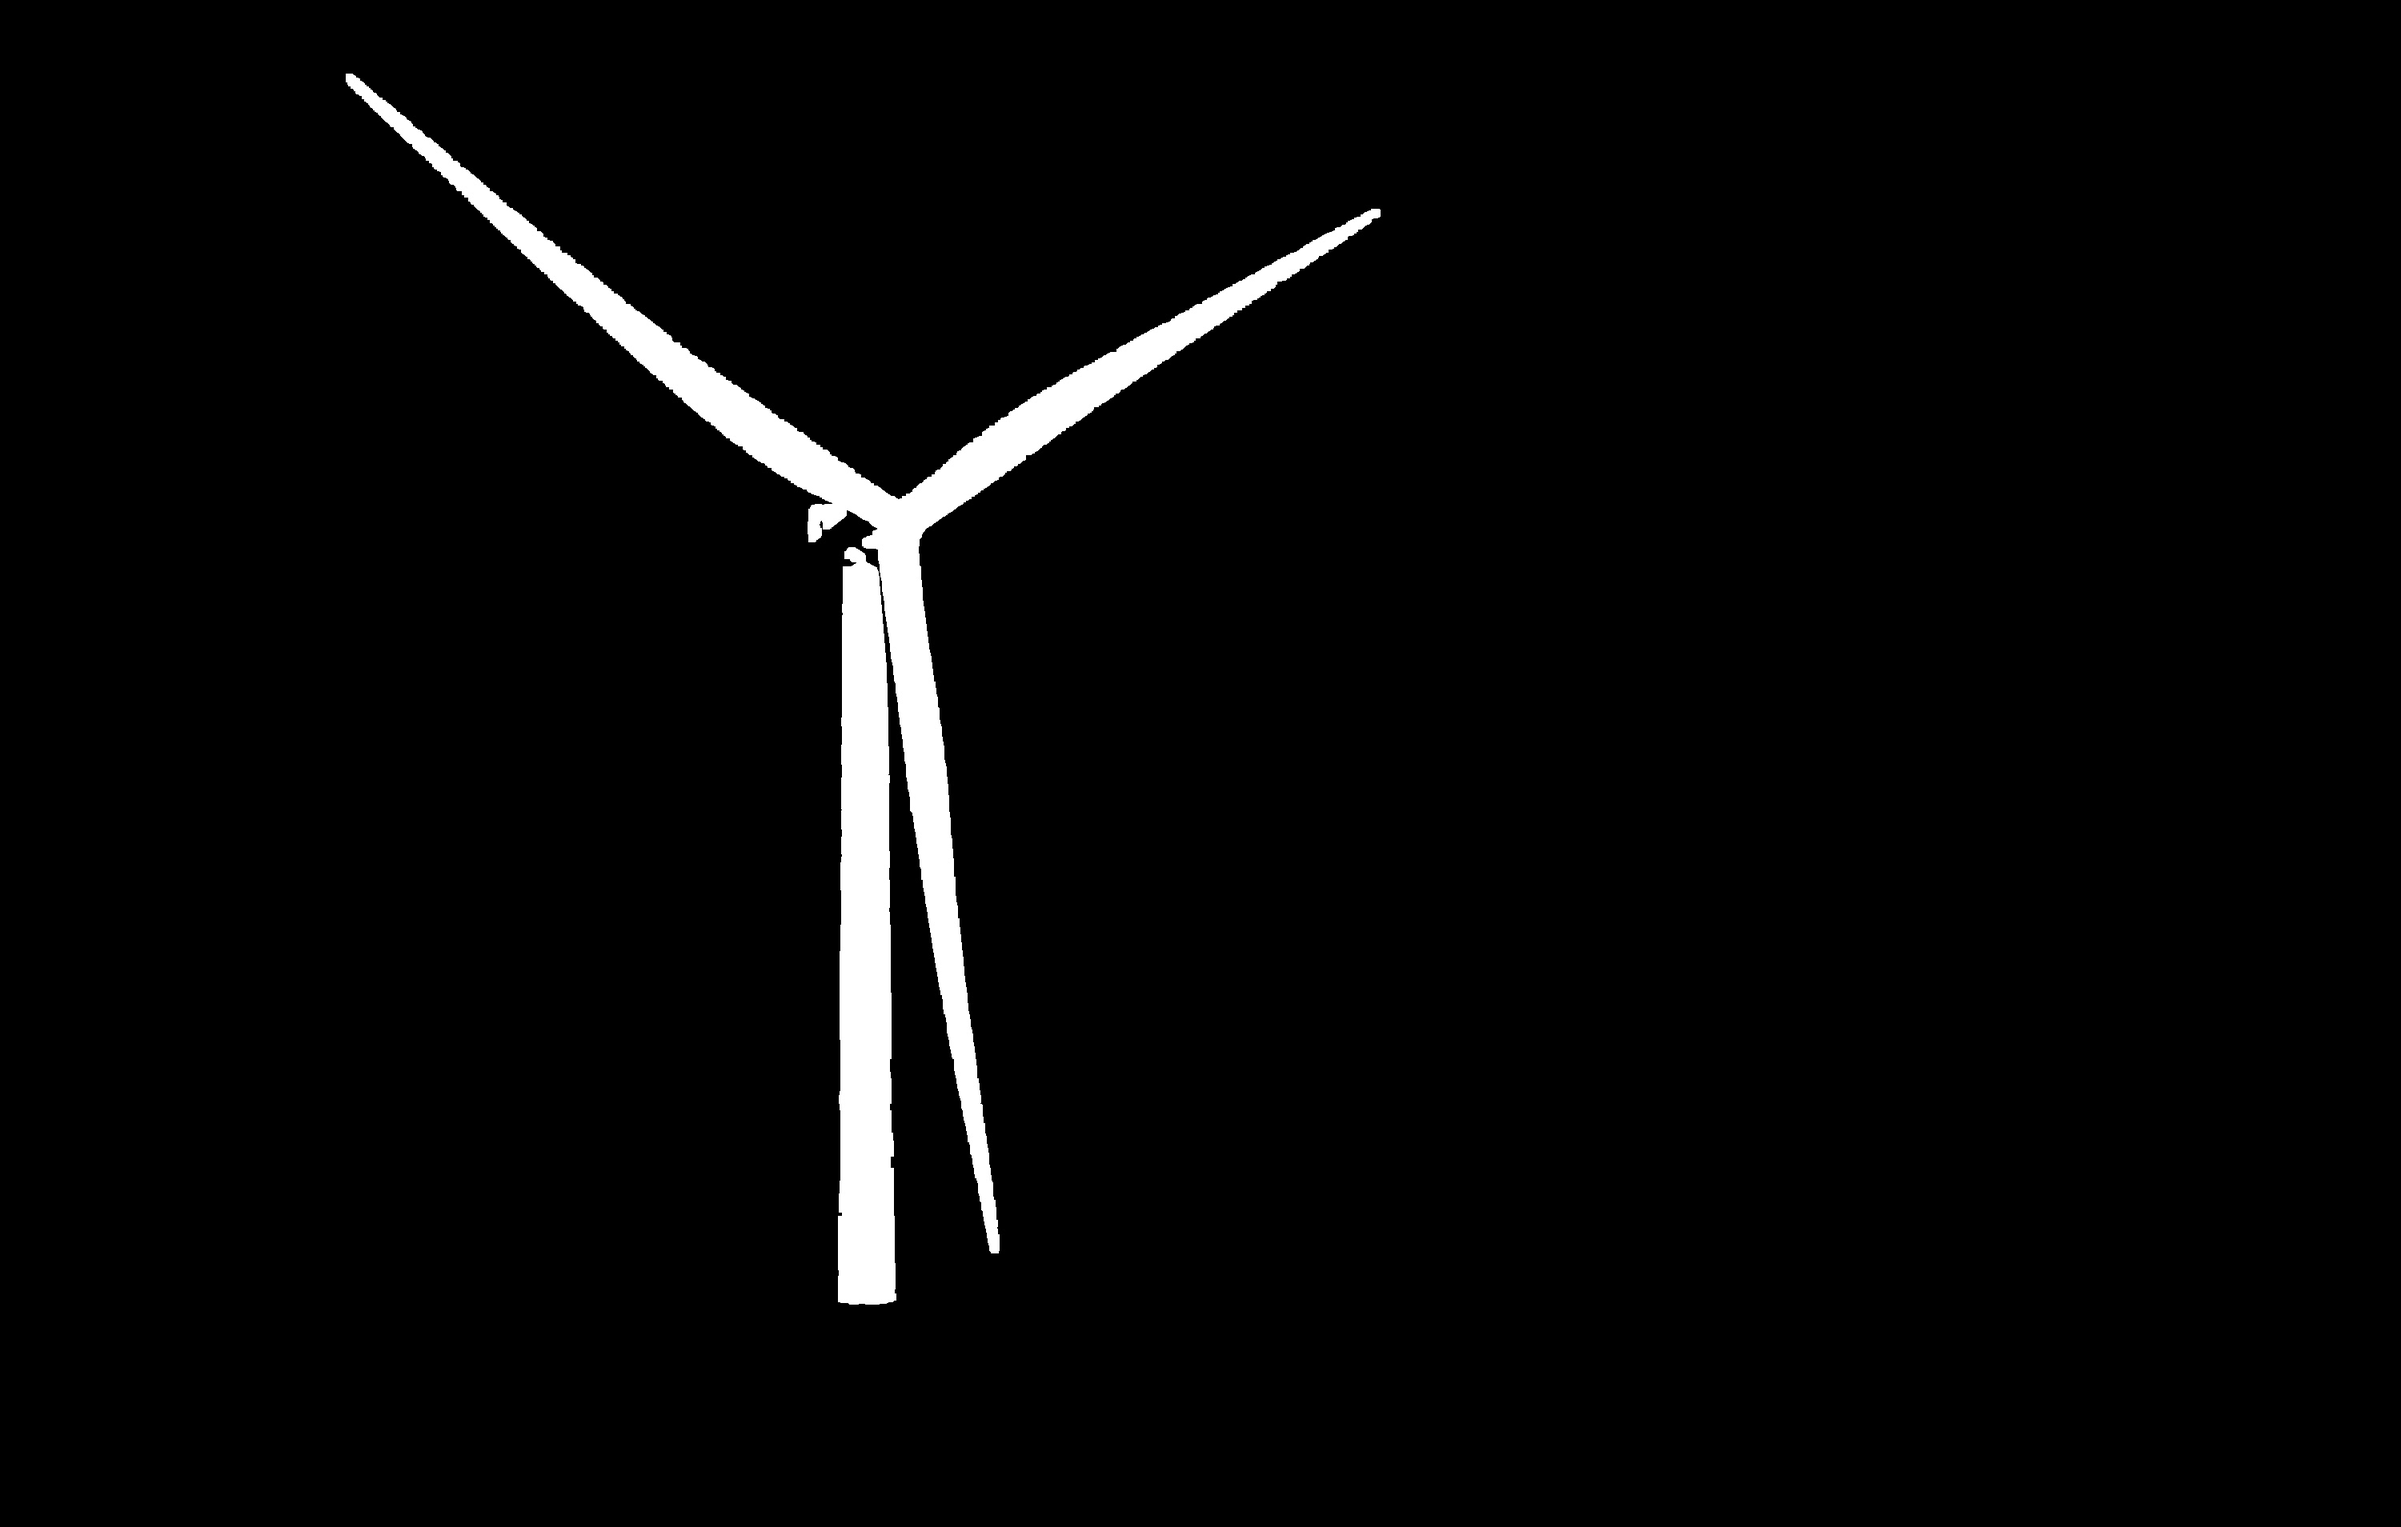
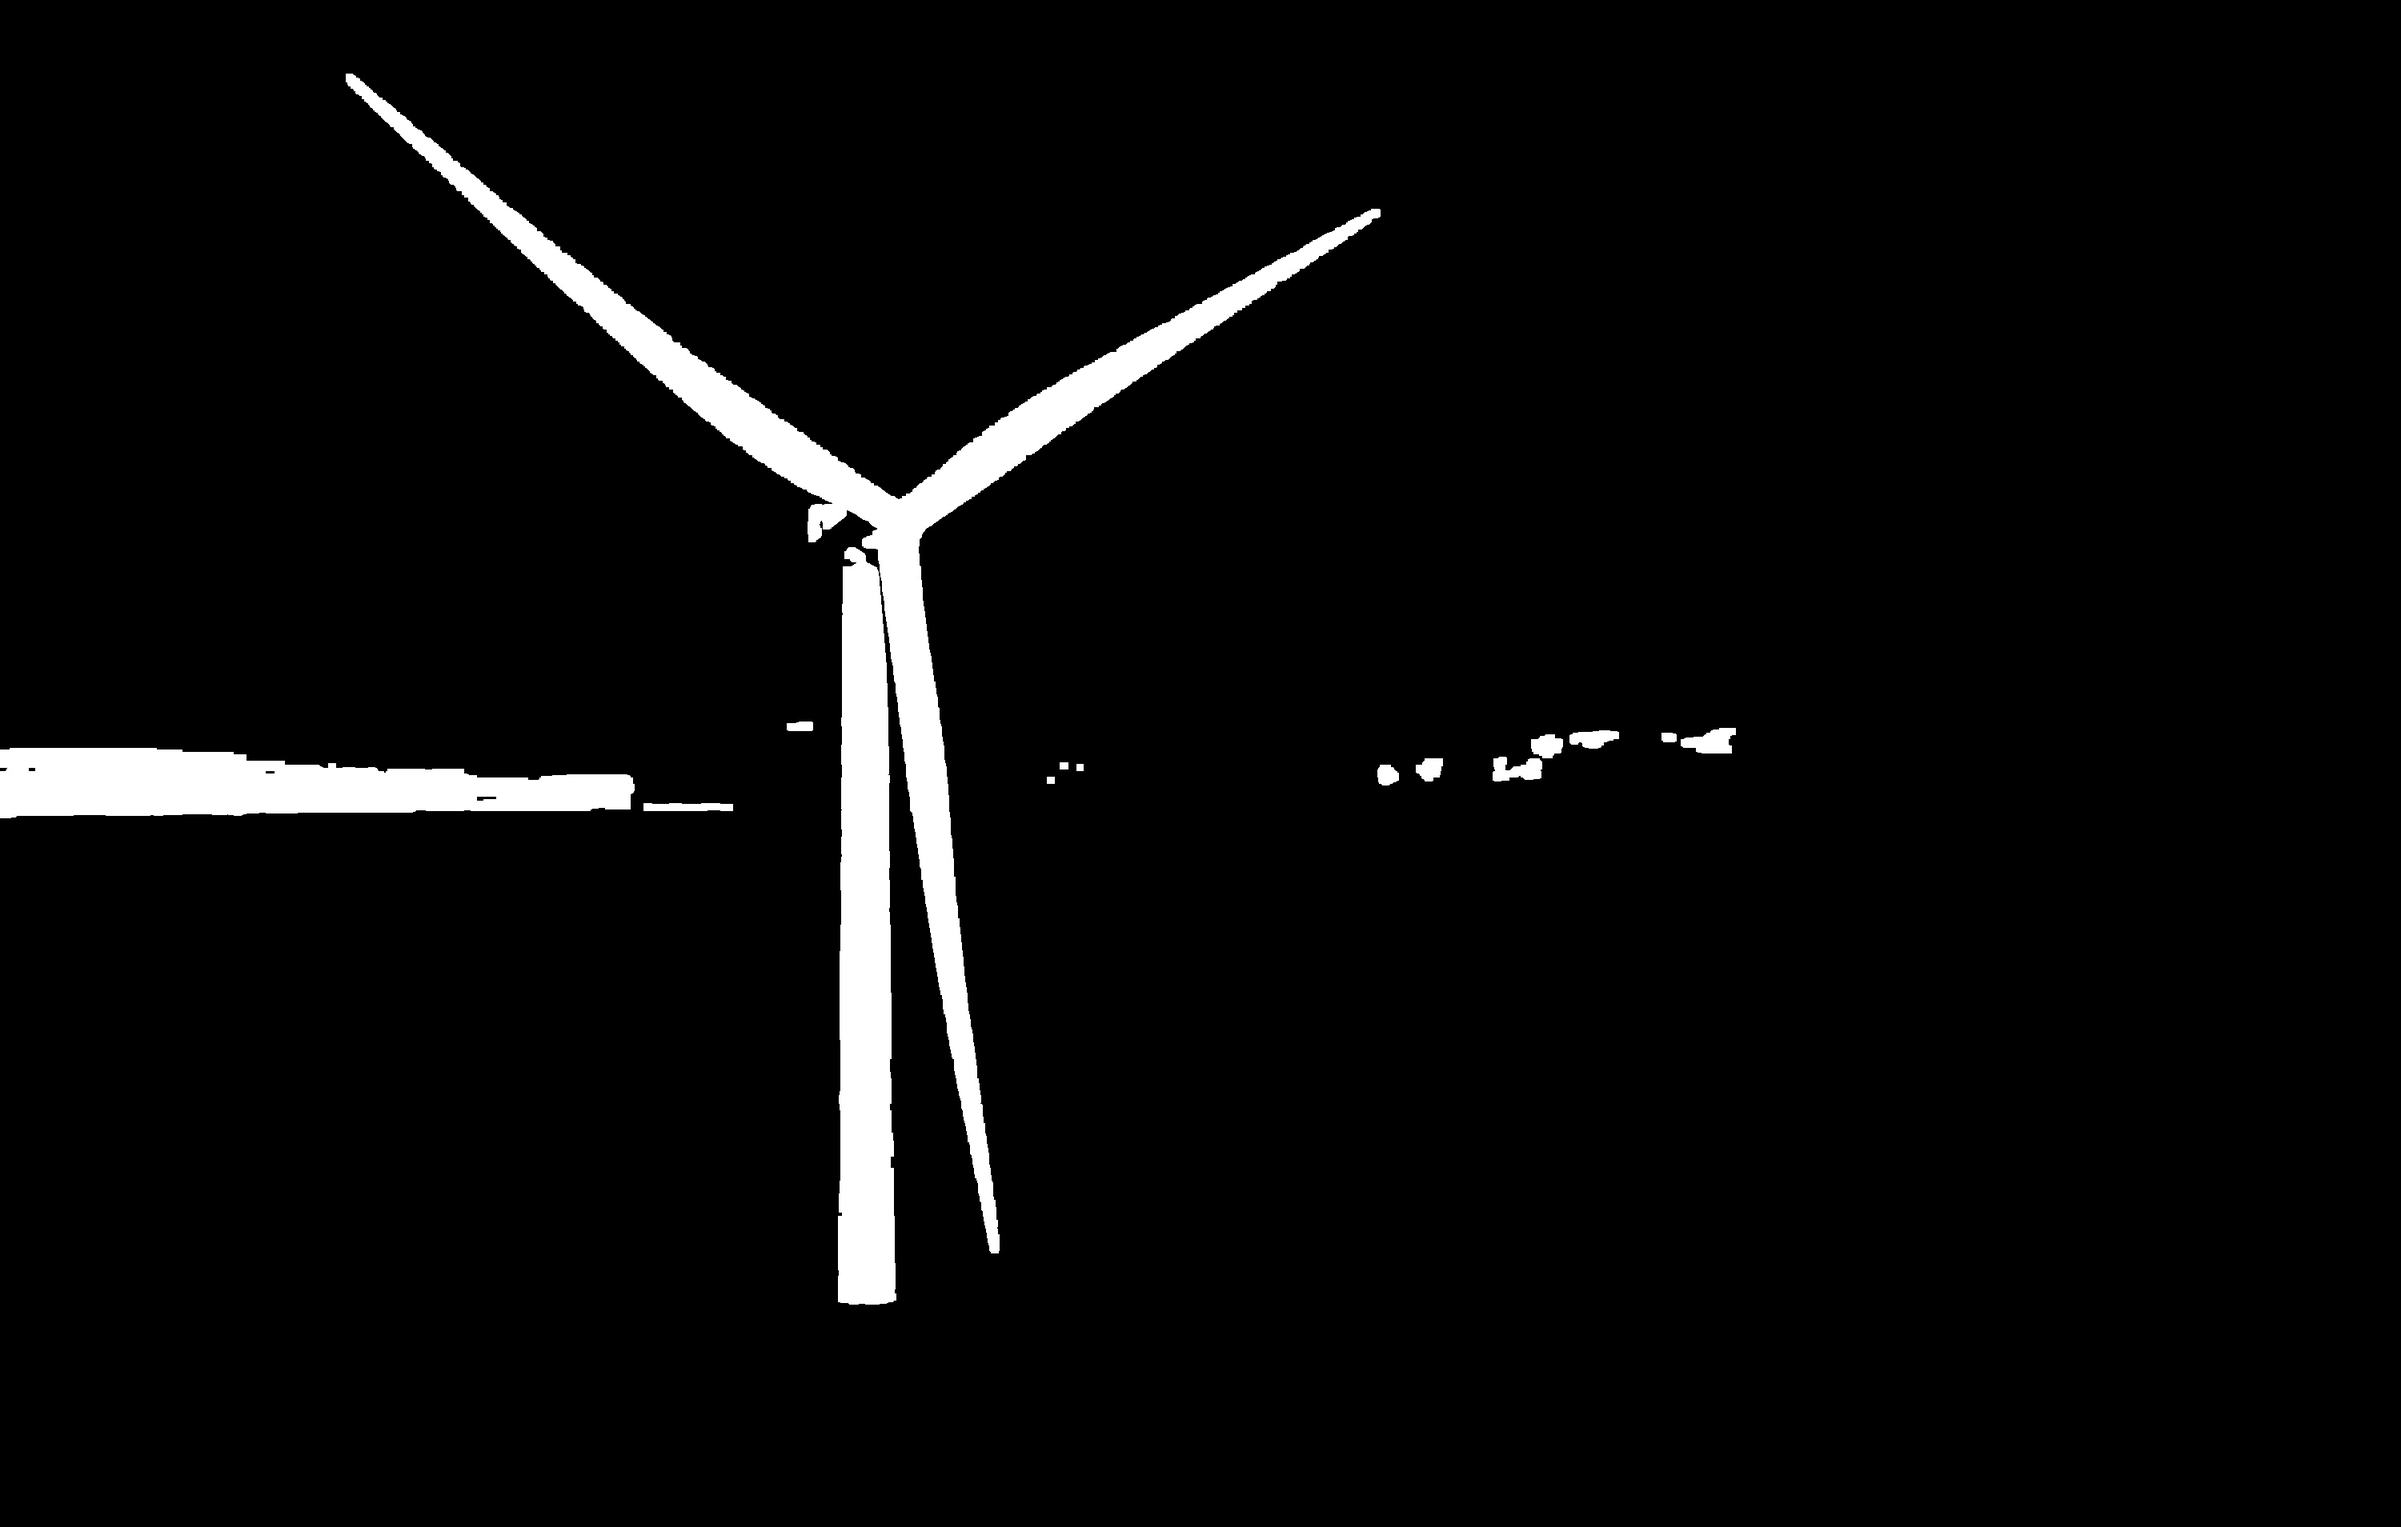
Added extension of lines from centroid to extreme left and right points of contour mask

Changed region(s): [[0.0, 0.4636, 0.31, 0.5563], [0.558, 0.4636, 0.744, 0.5254]]

diff --git a/scripts/blade_detector.py b/scripts/blade_detector.py
@@ -11,7 +11,7 @@ class BladeDetector:
         # Initialisation
         self.save_result = save_result
         if self.save_result:
-            self.save_path = './output/' + img_path.split('/')[-1]
+            self.save_path = './scripts/output/' + img_path.split('/')[-1]
         self.img = cv2.imread(img_path)
         #self.img = cv2.resize(self.img, (1920, 1080))
         self.gray_img = cv2.cvtColor(self.img, cv2.COLOR_BGR2GRAY)
@@ -46,6 +46,7 @@ class BladeDetector:
         # Draw lines
         tmp_img = self.img.copy()
         for i in range(self.lines.shape[0]):
+            # Lines are in (x1, y1, x2, y2, width)
             pt1 = (int(self.lines[i, 0]), int(self.lines[i, 1]))
             pt2 = (int(self.lines[i, 2]), int(self.lines[i, 3]))
             width = self.lines[i, 4]
@@ -68,7 +69,7 @@ class BladeDetector:
         # Fill mask with large contours
         cv2.drawContours(masked_image_zero, contours_to_keep, -1, 255, -1)
         # Use the new mask
-        masked_image = masked_image_zero
+        self.masked_image = masked_image_zero
         if self.save_result:
             cv2.imwrite(self.save_path[:-4] + '_contour_mask.jpg', masked_image)
         # Filter using the new mask
@@ -77,7 +78,7 @@ class BladeDetector:
             pt1 = (int(self.lines[i, 0]), int(self.lines[i, 1]))
             pt2 = (int(self.lines[i, 2]), int(self.lines[i, 3]))
             width = self.lines[i, 4]
-            if masked_image[pt1[1], pt1[0]] != 0 and masked_image[pt2[1], pt2[0]] != 0:
+            if self.masked_image[pt1[1], pt1[0]] != 0 and self.masked_image[pt2[1], pt2[0]] != 0:
                 cv2.line(self.img, pt1, pt2, (0,255,0), int(np.ceil(width / 2)))
                 self.filtered_lines.append(self.lines[i])
         print("Number of unfiltered lines: {}".format(len(self.lines)))
@@ -117,16 +118,16 @@ class BladeDetector:
         mean lengths, intersections and centroid.
 
         @type   lines: numpy array of shape (3,4)
-        @param  lines: Each row is 4 numbers, y1, x1, y2, x2
+        @param  lines: Each row is 4 numbers, x1, y1, x2, y2
         @rtype:   numpy array of shape (,5)
         @return:  the turbine model parameters
         """ 
         lines_homogenous = []
         intersections = []
         for l in lines:
-            # Transform each point (y,x) to homogenous coordinates (x,y,1)
-            p1 = np.flip(np.append(1,l[:2]))
-            p2 = np.flip(np.append(1,l[2:]))
+            # Transform each point (x,y) to homogenous coordinates (x,y,1)
+            p1 = np.append(l[:2],1)
+            p2 = np.append(l[2:],1)
             # Calculate lines in homogenous coordinates
             lines_homogenous.append(np.cross(p1,p2))
         lines_homogenous = np.array(lines_homogenous)
@@ -138,15 +139,40 @@ class BladeDetector:
         intersections.append(np.cross(lines_homogenous[0], lines_homogenous[2]))
         intersections = np.array(intersections)
         # Back to cartesian space (x,y)
-        intersections = np.array([intersections[i,:2] / intersections[i,2] for i in range(len(intersections))])
-        img_pts = np.fliplr(intersections).astype(int)
+        intersections = np.array([intersection[:2] / intersection[2] for intersection in intersections])
+        #img_pts = intersections.astype(int)
         # Draw blue dots on intersection points
-        for pt in img_pts:
-            cv2.circle(self.img, tuple(pt), 3, (255,0,0), thickness=3)
-        # Calculate centroid of intersections
-        centroid = np.sum(intersections, axis=0)/len(intersections)
-        # Red dots on centroids
-        cv2.circle(self.img, tuple(np.flip(centroid).astype(int)), 3, (0,0,255),thickness=3)
+        #for pt in img_pts:
+        #    cv2.circle(self.img, tuple(pt), 3, (255,0,0), thickness=-1)
+        # Calculate centroid of intersections (x,y) and round to int
+        centroid = (np.sum(intersections, axis=0)/len(intersections)).astype(int)
+        # Red dots on centroids if inside mask
+        if centroid[0] >= 0 and centroid[1] >= 0 and centroid[1] < self.masked_image.shape[0] and centroid[0] < self.masked_image.shape[1]:
+            if self.masked_image[centroid[1], centroid[0]] != 0:
+                cv2.circle(self.img, tuple(centroid), 4, (0,0,255), thickness=-1)
+                # Extend line from centroid to extreme left and right point
+                #for i in range(len(lines_homogenous)):
+                #    # Avoid dividing by 0
+                #    if lines_homogenous[i,2] != 0:
+                #        lines_homogenous[i,:] /= lines_homogenous[i,2]
+                # Lines are a,b,c: ax+by+c = 0
+                # y = -(a/b)x + c/b
+                start_pt = tuple(centroid)
+                x, y, w, h = cv2.boundingRect(self.masked_image)
+                left = (x, np.argmax(self.masked_image[:, x]))
+                right = (x+w-1, np.argmax(self.masked_image[:, x+w-1]))
+                #top = (np.argmax(self.masked_image[y, :]), y)
+                #bottom = (np.argmax(self.masked_image[y+h-1, :]), y+h-1)
+                cv2.circle(self.img, left, 8, (0, 50, 255), -1)
+                cv2.circle(self.img, right, 8, (0, 255, 255), -1)
+                #cv2.circle(self.img, top, 8, (255, 50, 0), -1)
+                #cv2.circle(self.img, bottom, 8, (255, 255, 0), -1)
+                end_pt = left
+                cv2.line(self.img, start_pt, end_pt, color=(255,255,0), thickness=3)
+                end_pt = right
+                cv2.line(self.img, start_pt, end_pt, color=(255,255,0), thickness=3)
+            else:
+                cv2.circle(self.img, tuple(centroid), 4, (255,0,0),thickness=-1)
         # Extend lines from centroid to edge of mask
         # Calculate length of each line,, mean length, angle between lines and we have what we need!
 
@@ -154,8 +180,8 @@ class BladeDetector:
 
 
 def main():
-    bd = BladeDetector(img_path='./image_data/offshore_wind_turbine.jpg', save_result=True)
-    bd.get_mask('./image_data/annotated_wind_turbine.jpg')
+    bd = BladeDetector(img_path='./scripts/image_data/offshore_wind_turbine.jpg', save_result=True)
+    bd.get_mask('./scripts/image_data/annotated_wind_turbine.jpg')
     bd.detect()
 
 if __name__ == "__main__":
